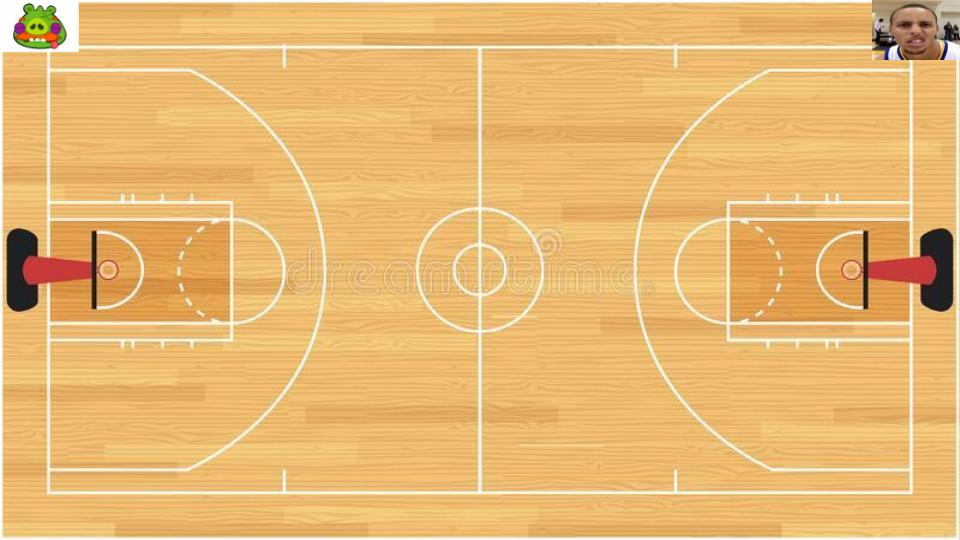
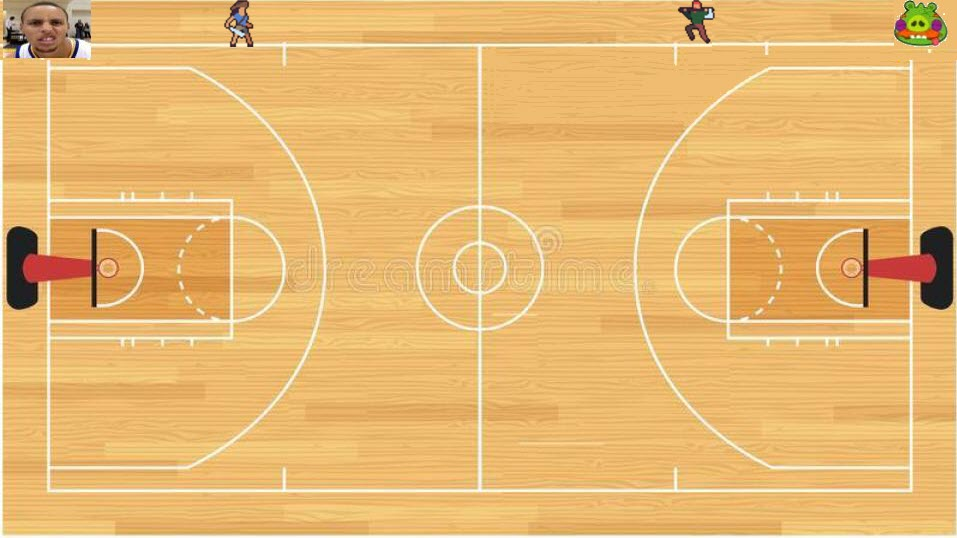
j

diff --git a/executable/CapstoneProject/src/screens/Map.java b/executable/CapstoneProject/src/screens/Map.java
@@ -21,31 +21,46 @@ public class Map extends Screen
 		private boolean aSpecial = false, bSpecial = false;
 		private int aUse = 3, bUse = 3;
 		private Weapon c;
+		private int bobHurt = 0, marioHurt = 0;
+		private boolean bobRed = false, marioRed = false;
 
+		private int marioRecoveryRate=0;
+		private int bobRecoveryRate=0;				
 		public Map(DrawingSurface surface) {
 			super(2000, 2000);
 			this.surface = surface;
 			screenRect = new Rectangle(0,0,DRAWING_WIDTH,DRAWING_HEIGHT);
 			obstacles = new ArrayList<Sprite>();
 		}
-
-		public void spawnNewBob(int x, int y, int h) {
-			b = new Bob(surface.loadImage("image/pigs.png"),x,y, h);
+	public void spawnNewBob(int x, int y, int h) 
+		{
+			b = new Bob(surface.loadImage("image/bobFight.png"),x,y,h);
 		}
 		
-		public void spawnNewMario(int x, int y, int h) {
-			a = new Mario(surface.loadImage("image/big3.jpg"),x,y, h);
+		public void spawnNewBob(int x, int y, int h,String img) 
+		{
+			b = new Bob(surface.loadImage(img),x,y,h);
 		}
 		
+		public void spawnNewMario(int x, int y, int h) 
+		{
+			a = new Mario(surface.loadImage("image/marioFight.png"),x,y, h);
+		}
+		
+		public void spawnNewMario(int x, int y, int h,String img) 
+		{
+			a = new Mario(surface.loadImage(img),x,y,h);
+		}
 		public void spawnWeapon(int x, int y) {
 			c = new Weapon(surface.loadImage("image/taswer.png"), x, y, 1000);
 		}
 
 		// The statements in the setup() function 
 		// execute once when the program begins
-		public void setup() {
-			spawnNewMario(500, 250, 1000);
-			spawnNewBob(100, 250, 1000);
+		public void setup() 
+		{
+			spawnNewMario(500, 250, 1000,"image/marioIdle.png");
+			spawnNewBob(100, 250, 1000,"image/marioIdle.png");
 		}
 
 		// The statements in draw() are executed until the 
@@ -59,21 +74,27 @@ public class Map extends Screen
 			surface.background(img);
 			// drawing stuff
 			if (c == null)
-				spawnWeapon(950, 970);
-			if (a == null) {
-				spawnNewMario(500, 250, 1000);
+			{spawnWeapon(950, 970);}
+			if (a == null) 
+			{
+				spawnNewMario(500, 250, 1000,"image/marioFight.png");
 		    }
-			if (b == null) {
-				spawnNewBob(100, 250,1000);
+			
+			if (b == null) 
+			{
+				spawnNewBob(100, 250, 1000,"image/bobFight.png");
 			}
 			surface.fill(0);
 			surface.rect(165,0, 300, 200, 10, 10, 10, 10);
+   			//To print health of first player
+
 			Integer h1 = b.getHealth();
 			String str = h1.toString();
 			surface.fill(4, 150, 7);
 			surface.textSize(100);
 			surface.text(str, 185, 137);
 			
+   			//To print health of second player
 			surface.fill(0);
 			surface.rect(2000 - 165-300 - 20,0, 300, 200, 10, 10, 10, 10);
 			Integer h2 = a.getHealth();
@@ -99,33 +120,80 @@ public class Map extends Screen
 			}
 			a.draw(surface);
 			b.draw(surface);
-			if (a.getHealth() < 500 || b.getHealth() < 500) {
+			if (a.getHealth() < 500 || b.getHealth() < 500) 
+			{
 				c.draw(surface);
 		    }
-			if (surface.isPressed(KeyEvent.VK_UP)) {
+			if(marioRed && !bSpecial)
+			{
+				marioHurt++;
+				if(marioHurt == 100)
+				{
+					spawnNewMario((int)a.getX(), (int)a.getY(), a.getHealth(),"image/marioFight.png");
+				}
+			}
+			if(bobRed && !aSpecial)
+			{
+				bobHurt++;
+				if(bobHurt == 100)
+				{
+					spawnNewBob((int)b.getX(), (int)b.getY(), b.getHealth(),"image/bobFight.png");
+				}
+			}
+			a.draw(surface);
+			b.draw(surface);
+			if (surface.isPressed(KeyEvent.VK_UP)) 
+			{
 				b.up();
-			}
-			if (surface.isPressed(KeyEvent.VK_DOWN)) {
-				b.down();
-			}
-			if (surface.isPressed(KeyEvent.VK_RIGHT)) {
-				b.right();
-			}
-			if (surface.isPressed(KeyEvent.VK_LEFT)) {
-				b.left();
+				marioRecoveryRate++;
+				bobRecoveryRate++;
 			}
 			
-			if (surface.isPressed(KeyEvent.VK_W)) {
+			if (surface.isPressed(KeyEvent.VK_DOWN)) 
+			{
+				b.down();
+				marioRecoveryRate++;
+				bobRecoveryRate++;
+			}
+			
+			if (surface.isPressed(KeyEvent.VK_RIGHT))
+			{
+				b.right();
+				marioRecoveryRate++;
+				bobRecoveryRate++;
+			}
+			
+			if (surface.isPressed(KeyEvent.VK_LEFT)) 
+			{
+				b.left();
+				marioRecoveryRate++;
+				bobRecoveryRate++;
+			}
+			
+			if (surface.isPressed(KeyEvent.VK_W)) 
+			{
+		
 				a.up();
+				marioRecoveryRate++;
+				bobRecoveryRate++;
 			}
-			if (surface.isPressed(KeyEvent.VK_A)) {
+			if (surface.isPressed(KeyEvent.VK_A))
+			{
 				a.left();
+				marioRecoveryRate++;
+				bobRecoveryRate++;
 			}
-			if (surface.isPressed(KeyEvent.VK_S)) {
+			if (surface.isPressed(KeyEvent.VK_S)) 
+			{
 				a.down();
+				marioRecoveryRate++;
+				bobRecoveryRate++;
 			}
-			if (surface.isPressed(KeyEvent.VK_D)) {
+			if (surface.isPressed(KeyEvent.VK_D)) 
+			{
 				a.right();
+				marioRecoveryRate++;
+				bobRecoveryRate++;				  
 			}
 			if (surface.mousePressed && a.getW()) {
 				c.shoot(surface, surface.mouseX *2.5, surface.mouseY * 3.333333333333333333333333333333333333333333333333333333333333333333333333333333, a, b);
@@ -135,16 +203,18 @@ public class Map extends Screen
 				c.shoot(surface, surface.mouseX *2.5, surface.mouseY * 3.333333333333333333333333333333333333333333333333333333333333333333333333333333, b, a);
 				
 			}
+/*										 
 			if(surface.isPressed(KeyEvent.VK_Q)) {
-				if (!(b.getI())) {
-					a.attack(b);
+				if (!(b.getI()))
+					{
+					a.attack(b);						
 					a.attack(c);
 					if (b.getHealth() <= 0)
-						surface.switchScreen(3);
-				}
+					{surface.switchScreen(3);}
 			}
 			
-			if (surface.isPressed(KeyEvent.VK_CONTROL)) {
+			if (surface.isPressed(KeyEvent.VK_CONTROL)) 
+			{
 				if (!(a.getI())) {
 					b.attack(a);
 					b.attack(c);
@@ -152,17 +222,71 @@ public class Map extends Screen
 						surface.switchScreen(4);
 				}
 			}
-			
-			if (surface.isPressed(KeyEvent.VK_E) && !aSpecial && aUse > 0) {
+	*/		
+			if (surface.isPressed(KeyEvent.VK_E) && !aSpecial && aUse > 0) 
+			{
+				
 				a.special(surface);
 				aTime = 0;
 				aSpecial = true;
 			}
 			
-			if (surface.isPressed(KeyEvent.VK_SHIFT) && !bSpecial && bUse > 0) {
+			if (surface.isPressed(KeyEvent.VK_SHIFT) && !bSpecial && bUse > 0) 
+			{
 				b.special(surface);
 				bTime = 0;
 				bSpecial = true;
-			}
 		}
+	  if (surface.isPressed(KeyEvent.VK_CONTROL))
+			{
+		  			if (a.intersects(b)) {
+						marioRecoveryRate=0;
+						spawnNewMario((int)a.getX(), (int)a.getY(), a.getHealth(),"image/marioHurt.png");
+						marioRed = true;
+						a.setHealth(a.getHealth()-1);
+		  			}
+					if(a.getHealth() >0 && a.getHealth() <=2)
+					{
+						spawnNewMario((int)a.getX(), (int)a.getY(), a.getHealth(),"image/marioDeath.png");
+					}
+					
+					if(a.getHealth()<0)
+					{
+						surface.switchScreen(3);
+						
+					}
+			}
+//			if(marioRecoveryRate>2 && a.getHealth()>2)
+//			{
+//				spawnNewMario((int)a.getX(), (int)a.getY(), a.getHealth(),"image/marioFight.png");
+//			}
+			
+			if (surface.isPressed(KeyEvent.VK_Q))
+			{
+					if(a.intersects(b) || b.intersects(a))
+					{
+						bobRecoveryRate=0;
+						bobRed = true;
+						spawnNewBob((int)b.getX(), (int)b.getY(), b.getHealth(),"image/bobHurt.png");
+						b.setHealth(b.getHealth()-1);
+					}
+					
+					if(b.getHealth() >0 && b.getHealth() <=2)
+					{
+						spawnNewBob((int)b.getX(), (int)b.getY(), b.getHealth(),"image/bobDeath.png");
+					}
+										
+					if(b.getHealth()<=0)
+					{
+						surface.switchScreen(4);
+					}
+			}
+								
+//			if(bobRecoveryRate>2 && b.getHealth()>2)
+//			{
+//				spawnNewBob((int)b.getX(), (int)b.getY(), b.getHealth(),"image/bobFight.png");
+// 
+//   
+//			}
+}
 }

diff --git a/executable/CapstoneProject/src/characters/Sprite.java b/executable/CapstoneProject/src/characters/Sprite.java
@@ -77,7 +77,11 @@ public class Sprite extends Rectangle2D.Double
 		moveByAmount(-15, 0);
 		applyWindowLimits(2000, 2000);
 	}
-	
+	public void setHealth(int h)
+	{
+		health=h;
+	}
+
 	public void special(PApplet surface) {
 		image = surface.loadImage(specialImgName);
 		invis = true;
@@ -91,7 +95,8 @@ public class Sprite extends Rectangle2D.Double
 		return y;
 	}
 	
-	public void attack(Sprite other) {
+	public void attack(Sprite other) 
+	{
 		// TODO Auto-generated method stub
 		if (this.intersects(other) && (other instanceof Mario || other instanceof Bob)) {
 		//	System.out.println("touch");

diff --git a/executable/CapstoneProject/src/characters/Mario.java b/executable/CapstoneProject/src/characters/Mario.java
@@ -22,7 +22,7 @@ public class Mario extends Sprite {
 
 	// METHODS
 	public void special(PApplet surface) {
-		specialImgName = "image/sad.jpg";
+		specialImgName = "image/marioInvisible.png";
 		super.special(surface);
 	}
 

diff --git a/executable/CapstoneProject/src/characters/Bob.java b/executable/CapstoneProject/src/characters/Bob.java
@@ -36,7 +36,7 @@ public class Bob extends Sprite {
 	}
 
 	public void special(PApplet surface) {
-		specialImgName = "image/angry.jpg";
+		specialImgName = "image/bobInvisible.png";
 		super.special(surface);
 	}
 
